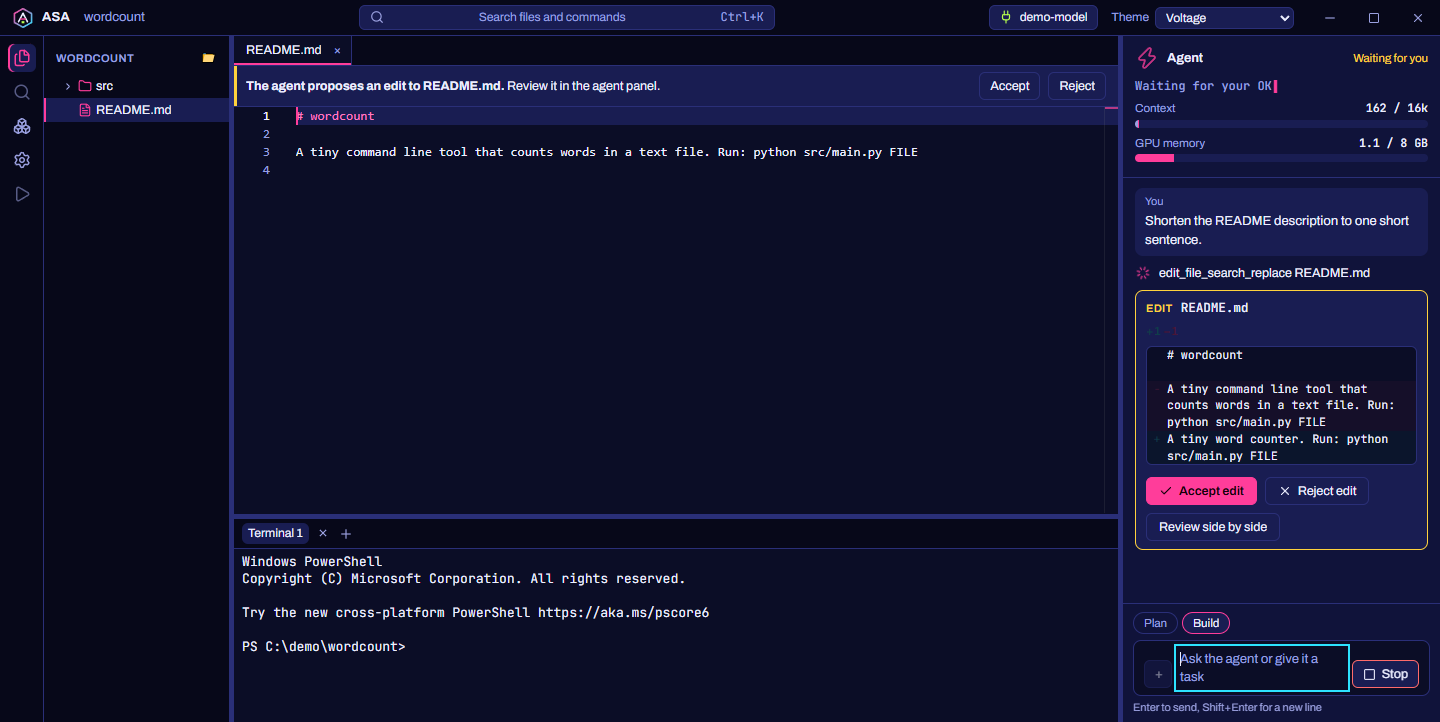
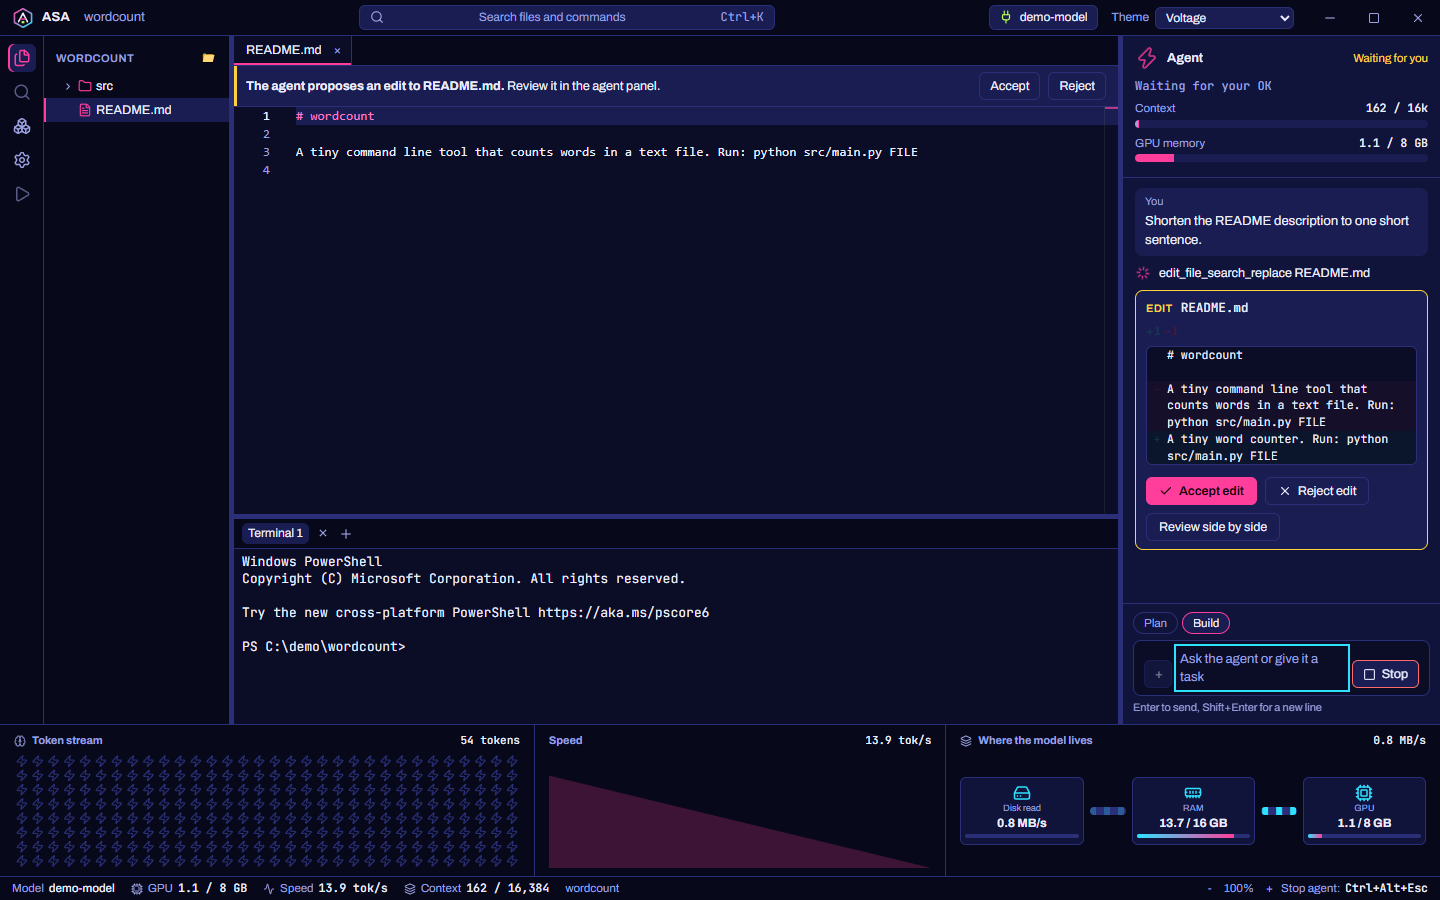
docs: README screenshots now show the full window with the engine strip

Changed region(s): [[0.0, 0.0, 1.0, 1.0], [0.0, 0.2133, 0.0312, 0.2438]]

diff --git a/README.md b/README.md
@@ -14,7 +14,7 @@ No cloud, no account, no API bill. Bring a GGUF file or a Hugging Face model fol
 </div>
 
 > The screenshots on this page were taken from the real IDE, using a scripted stand-in model so the output is repeatable.
-> They show the interface, not model quality or speed. Real speeds are in [Measured speeds](#measured-speeds).
+> They show the interface, not model quality or speed (the tok/s in the engine strip is the stand-in's scripted pace). Real speeds are in [Measured speeds](#measured-speeds).
 
 ## Why this exists
 
@@ -39,31 +39,20 @@ asking before it changes anything.
 The Models dialog (the model chip in the title bar, or the boxes icon in the left bar) scans your drives, Ollama, LM Studio
 and the Hugging Face cache, and lists everything it finds with its size and quantization.
 
-<table>
-<tr>
-<td width="50%" valign="top">
-
 ### GGUF files with llama.cpp
 
 Best for daily use. The IDE reads the GGUF header (layers, experts, context length) and your GPU memory, then suggests settings.
 For mixture-of-experts models too big for the GPU, it keeps the attention layers on the GPU and moves some expert layers to
 system memory, so a 35B model can run on 8 GB of VRAM.
 
-<img src="docs/images/models-gguf.png" alt="Models dialog with a GGUF model selected and a suggested number of expert layers on CPU" width="100%">
-
-</td>
-<td width="50%" valign="top">
+<img src="docs/images/models-gguf.png" alt="Models dialog with a GGUF model selected and a suggested number of expert layers on CPU" width="900">
 
 ### Safetensors folders with AirLLM
 
 For trying models far larger than your GPU or RAM. AirLLM streams one layer at a time from disk, so it is slow, and the
 dialog says how slow in plain words before you start. Use it to test a big model, not for daily work.
 
-<img src="docs/images/models-airllm.png" alt="Models dialog with a safetensors model selected, showing a speed warning and AirLLM settings" width="100%">
-
-</td>
-</tr>
-</table>
+<img src="docs/images/models-airllm.png" alt="Models dialog with a safetensors model selected, showing a speed warning and AirLLM settings" width="900">
 
 Both start from the same dialog, show the server log while the model loads, and connect the IDE when the server reports ready.
 The agent does not care which one is behind the endpoint.
